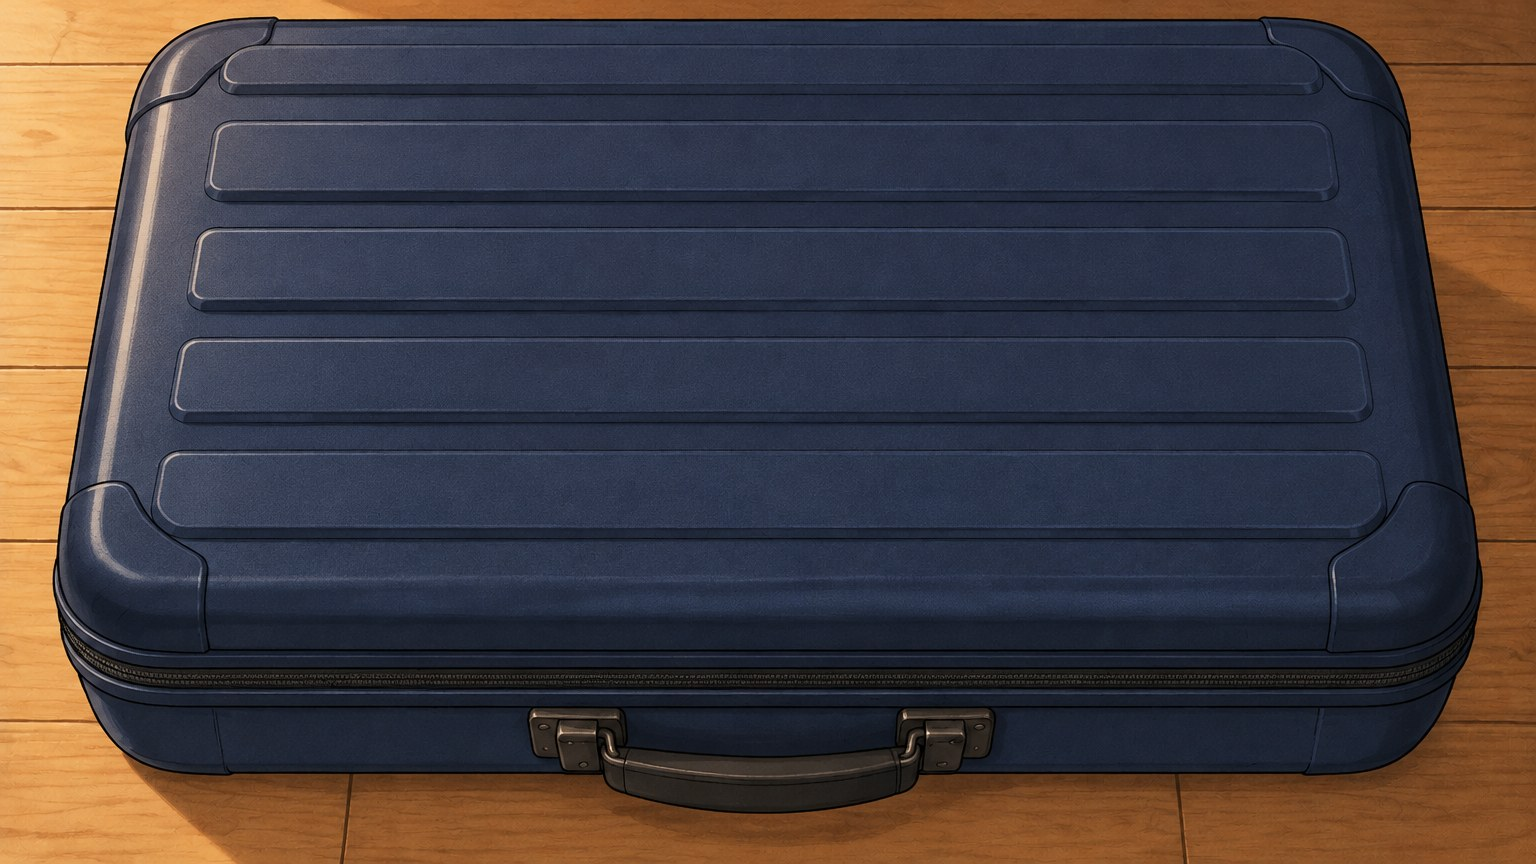
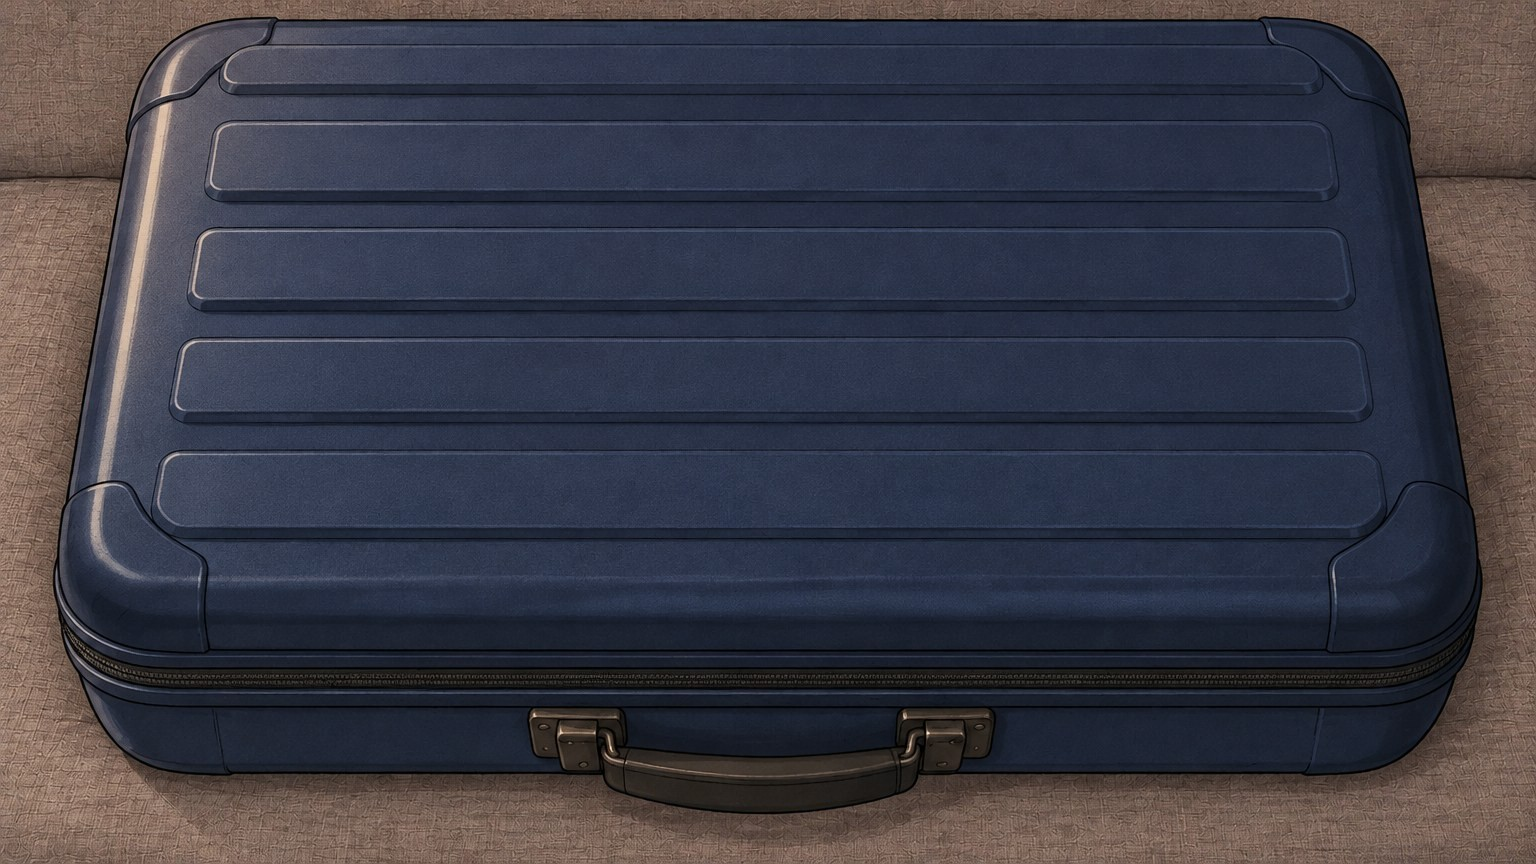
eval2: the whiteboard beside the case, the case's close-ups on the sofa (MOTH-147, MOTH-148; build 2026-10-25j)
The board moved left and the case's patch trimmed; the close-ups' floor
replaced by the sofa's fabric with the case kept pixel for pixel. Audit
B11 lists things on a wall that partly overlap. Checklist 96.

Claude-Session: https://claude.ai/code/session_01NNV6bKQQBQHSTRYcXaNkXH

Changed region(s): [[0.0, 0.0, 1.0, 1.0]]

diff --git a/tools/audit.js b/tools/audit.js
@@ -1,6 +1,6 @@
 /* The Moth House: the checklist's automatic lines (next/CHECKLIST.md), run over every stage.
    usage: node tools/audit.js [stage ...]   (needs the local server: cd <repo> && python3 -m http.server 8765)
-   Checks: cut-out proportions (B9), icons centred inside their slots (E33), close-ups that take what their hotspot takes (E34), no picture squashed or stretched in a room or close-up (E35),
+   Checks: cut-out proportions (B9), icons centred inside their slots (E33), close-ups that take what their hotspot takes (E34), no picture squashed or stretched in a room or close-up (E35), things on a wall that partly overlap (B11, for a look),
    no stage part named after an engine style (E36), a shadow on things that stand (B10, listed for a look), pictures that fail to load (G38),
    hotspot bounds, size and the turn-arrow strips (E32), unique hotspot ids, close-up overflow and page scroll at three sizes (G36, G37),
    unrecorded voice keys (F34), targets low enough to sit under the caption band (32d), and an error-free run with reduced motion at the owner's screen shape (G36).
@@ -92,6 +92,12 @@ const voiced = new Set(JSON.parse(fs.readFileSync(path.join(__dirname, '../next/
           /* a smaller target drawn over the middle of a bigger one takes the bigger one's tap (the engine puts small things on top): fine for a mug on a desk, wrong for a window on the stairs (14 Oct 2026) */
           for (const h of hs) for (const g of hs){ if (g === h || g.w*g.h <= h.w*h.h) continue; const gx = g.l + g.w/2, gy = g.t + g.h/2;
             if (gx > h.l && gx < h.l + h.w && gy > h.t && gy < h.t + h.h) say(stage, 'E32?', `${v}: ${h.id} covers the middle of ${g.id}, so a tap on ${g.id}'s centre goes to ${h.id} (fine only if that is the intent)`); }
+          /* things placed on a wall that partly overlap each other: the whiteboard stood in front of the case once the case was redrawn wider
+             (MOTH-147). One wholly inside another (a packed thing in the case) is meant; a part-overlap is listed for a look */
+          (await p.evaluate(() => { const ims = [...document.querySelectorAll('#scene img')].filter(im => !im.closest('#inv, #closeup, .d3') && im.complete && im.naturalWidth).map(im => [im.getAttribute('src').split('/').pop().split('?')[0], im.getBoundingClientRect()]).filter(([, r]) => r.width > 4 && r.height > 4), out = [];
+            for (let i = 0; i < ims.length; i++) for (let j = i + 1; j < ims.length; j++){ const [a, r] = ims[i], [b, q] = ims[j]; const w = Math.min(r.right, q.right) - Math.max(r.left, q.left), h = Math.min(r.bottom, q.bottom) - Math.max(r.top, q.top); if (w <= 0 || h <= 0) continue;
+              const part = w*h/Math.min(r.width*r.height, q.width*q.height); if (part > 0.03 && part < 0.85) out.push(`${a} and ${b} overlap by ${Math.round(part*100)}% (fine only if one stands in front of the other on purpose)`); }
+            return out; })).forEach(q => say(stage, 'B11?', `${v}: ${q}`));
           /* no picture squashed or stretched to fake a view: the tape was a front-on roll at scaleY(.45), a flat disc on the desk (MOTH-117) */
           (await p.evaluate(squashed, '#scene')).forEach(q => say(stage, 'E35', `${v}: ${q}`));
           await p.screenshot({path:path.join(OUT, `${stage}-${v}.png`), clip:await p.locator('#scene').boundingBox()});

diff --git a/next/landscape/stages/eval2.js b/next/landscape/stages/eval2.js
@@ -78,7 +78,7 @@ const ov = html => { const d = document.createElement('div'); d.style.cssText = 
 const BOTOUT = {l:70.96, t:57.41, w:17.32}, BOTFLOOR = {l:72, t:73.5, w:15, h:17.5}, TAPEIN = [12.5, 56, 14, 23.5]; /* the patch (m1-botout2, the socks drawer close-up attached so the socks agree), the drawer on the floor, the tape in closeup-drawer-mid-tape.jpg: measured on grids */
 const HOTS = {
   m3:[
-    {id:'e2_board', l:42, t:49, w:15, h:17, label:'Mary’s whiteboard', key:true, sound:'paper'},
+    {id:'e2_board', l:40, t:49, w:14.5, h:17, label:'Mary’s whiteboard', key:true, sound:'paper'},
     {id:'e2_case', l:55, t:40, w:19, h:27, label:'Mary’s case', sound:'open'},
     {id:'e2_cushions', l:30, t:48, w:12, h:17, label:'Cushions', sound:'tap'},
     {id:'e2_poster', l:17, t:6, w:15, h:41, label:'Planets poster', sound:'paper'},
@@ -208,7 +208,7 @@ const gold = () => S.wiped ? '<div style="position:absolute;inset:0;background:r
 const OVERLAYS = {
   m3:() => ov(gold() /* the case (about 60 cm, against the 200 cm sofa) and the board propped on the seat; the game writes on the board */
     + caseRoom()
-    + `<div style="position:absolute;left:43%;top:50%;width:13%">${boardWrap(false)}</div>`),
+    + `<div style="position:absolute;left:40.8%;top:50%;width:13%">${boardWrap(false)}</div>`),
   m2:() => ov(gold() + (S.lightsOff ? '' : `<img class="e2tw" src="${A}layer-lights-on.png?v=${BUILD}" alt="" style="position:absolute;left:13.74%;top:36.23%;width:12.43%">`)),
   m1:() => ov(gold()
     + (taken('shelly') ? '' : `<div style="position:absolute;left:87.45%;top:38.9%;width:1.8%;height:2.4%;overflow:hidden"><img src="${A}item-shelly.png?v=${BUILD}" alt="" style="position:absolute;left:22%;top:4%;width:56%"><span style="position:absolute;inset:0;background:rgba(255,255,255,.18)"></span></div>`)
@@ -258,7 +258,7 @@ function wardrobeRoom(){
 function setWardrobe(open){ swingFrom.wdl = swingFrom.wdr = !!S.wardOpen; S.wardOpen = open; save(); sfx(open ? 'open' : 'close'); render(); animateDoor('wdl', open); animateDoor('wdr', open); }
 /* The case in the room (MOTH-113, MOTH-123, MOTH-133): drawn from the close-up so the clothes agree; each packed thing is lifted from an
    edit with all four in, so any of them shows in its own place; zipped shut, it is the closed case. */
-const CASEROOM = {sheet:[54.56, 52.43, 6.71], present:[59.77, 54.17, 7.23], hat:[65.69, 50.93, 7.1], passport:[54.75, 57.06, 4.3]}, CASEP = [52.99, 24.42, 22.98]; /* the case drawn in place on the sofa at the room's eye level (MOTH-146), open and shut (the handle at the front: MOTH-145), and each packed thing from its own edit of it, pasted where it lies: all in room percentages */
+const CASEROOM = {sheet:[54.56, 52.43, 6.71], present:[59.77, 54.17, 7.23], hat:[65.69, 50.93, 7.1], passport:[54.75, 57.06, 4.3]}, CASEP = [54.49, 24.42, 21.48]; /* the case drawn in place on the sofa at the room's eye level (MOTH-146), open and shut (the handle at the front: MOTH-145), and each packed thing from its own edit of it, pasted where it lies: all in room percentages */
 const CASEUP = {sheet:[9.64, 36.0, 22.33], passport:[6.32, 61.0, 12.63], present:[36.26, 42.82, 25.72], hat:[63.41, 34.14, 30.01]};
 const PACKFILE = {carol:'sheet', hat:'hat', present:'present', passport:'passport'};
 function caseRoom(){

diff --git a/next/landscape/index.html b/next/landscape/index.html
@@ -644,7 +644,7 @@ button{font:inherit;color:inherit;cursor:pointer}
 
 <script>
 'use strict';
-const BUILD = '2026-10-25i';
+const BUILD = '2026-10-25j';
 const $ = id => document.getElementById(id);
 
 /* ---------- sizing: the scene fills the screen in landscape, the inventory strip under it, or beside it on a wide screen (backlog 24) ---------- */
@@ -1764,16 +1764,16 @@ function boot(){
   playSplash().then(showTitle);
 }
 </script>
-<script src="stages/school.js?v=2026-10-25i"></script>
-<script src="stages/packing.js?v=2026-10-25i"></script>
-<script src="stages/school3.js?v=2026-10-25i"></script>
-<script src="stages/evalroom.js?v=2026-10-25i"></script>
-<script src="stages/eval2.js?v=2026-10-25i"></script>
-<script src="stages/eschool.js?v=2026-10-25i"></script>
-<script src="stages/zschool.js?v=2026-10-25i"></script>
-<script src="stages/flight.js?v=2026-10-25i"></script>
-<script src="stages/nana.js?v=2026-10-25i"></script>
-<script src="stages/park.js?v=2026-10-25i"></script>
+<script src="stages/school.js?v=2026-10-25j"></script>
+<script src="stages/packing.js?v=2026-10-25j"></script>
+<script src="stages/school3.js?v=2026-10-25j"></script>
+<script src="stages/evalroom.js?v=2026-10-25j"></script>
+<script src="stages/eval2.js?v=2026-10-25j"></script>
+<script src="stages/eschool.js?v=2026-10-25j"></script>
+<script src="stages/zschool.js?v=2026-10-25j"></script>
+<script src="stages/flight.js?v=2026-10-25j"></script>
+<script src="stages/nana.js?v=2026-10-25j"></script>
+<script src="stages/park.js?v=2026-10-25j"></script>
 <script>boot();</script>
 <script>if ('serviceWorker' in navigator && location.protocol === 'https:') navigator.serviceWorker.register('../../sw.js').catch(() => {});</script>
 </body>

diff --git a/levels/LEVEL-eval2.md b/levels/LEVEL-eval2.md
@@ -3,8 +3,8 @@
 *Opened on 24 Oct 2026 at the owner's word: "Do the packing day but built from scratch. Just as a two-room puzzle. Mary needs to find her things before she can take her flight to London for Christmas. Make it interesting." It is the second test level after "Lock-up Duty" (`levels/LEVEL-evalroom.md`), built the same way through the same gates: the room-specification method on Sunburst in the signed-off style, the test room's way of playing, and the owner's materials first (playbook 4x, checklist 8c and 8d). The owner is giving the rooms one at a time as photographs, which are never kept in the repo: each room is written down here in words as it arrives, with what is still missing, and the design is drawn on paper and approved before any picture is made. Room 1 arrived on 24 Oct 2026 (eight pictures) and room 2 the same day (eight pictures, Mary's room); the design below is drawn from both and waits on the owner's Gates A and B. Nothing is signed, nothing is built, no credit is spent. The stage key `eval2` and the hotspot prefix `e2_` are reserved. (An earlier outline for this key, a front-office test room, is parked in commit `731e844` and is not this level.)*
 
 Status: `brief` | `outline` | `greybox` | `assets listed` | `samples` | `batch` | `integrating` | `released`
-Current status: integrating (Gates A to E signed 25 Oct 2026; the owner's fifth review fixed in build 2026-10-25g; the drawers, his option 1, in 2026-10-25h; his screenshots in 2026-10-25i)
-Build id of the latest play link: 2026-10-25i
+Current status: integrating (Gates A to E signed 25 Oct 2026; the owner's fifth review fixed in build 2026-10-25g; the drawers, his option 1, in 2026-10-25h; his screenshots in 2026-10-25i and 2026-10-25j)
+Build id of the latest play link: 2026-10-25j
 Latest play link: https://rawcdn.githack.com/me565/me565.github.io/bad8fe7a173ead7c6bce34a0445540538559f2c7/next/landscape/index.html?stage=eval2
 
 ---
@@ -485,6 +485,15 @@ Pictures made (`evals/images/runs/eval2-fix5.json`, run 40189249187, linted clea
 
 Pictures (`evals/images/runs/eval2-case-eye.json`, run 40199368282): **29.4¢ for 6**, all first time. Checks on build 2026-10-25i: scripted playthrough passes (normal and reduced motion); audit of eval2: no failures.
 
+### The owner's screenshots (25 Oct 2026, build 2026-10-25i): MOTH-147, MOTH-148
+
+| Card | His point | The cause | Fixed how |
+|---|---|---|---|
+| MOTH-147 | The whiteboard stands in front of the case | The case, redrawn in place, grew left; the board's overlay was not moved, and its patch box began left of the case | The board moved left (40.8%) to stand beside the case; the case's patch trimmed to start just before it; the audit lists part-overlaps (B11) |
+| MOTH-148 | The case's close-ups lie on a wooden floor; the case is on the sofa | The close-ups were drawn before the case's place was set | Edited onto the sofa's fabric (with a crop of `m3`'s sofa attached), then the old case kept pixel for pixel and only the floor round it replaced, so the packed pieces still line up |
+
+Pictures (`evals/images/runs/eval2-case-sofa.json`, run 40200819195): **3.6¢ for 2**, first time. Build 2026-10-25j: playthrough passes (normal and reduced motion); audit: no failures, no overlaps.
+
 ## 8. Release
 
 (the template's sections, filled in order as the gates open; see `levels/LEVEL-TEMPLATE.md`)
@@ -503,7 +512,8 @@ Pictures (`evals/images/runs/eval2-case-eye.json`, run 40199368282): **29.4¢ fo
 | 7 polish: the fifth review's pictures | ~46¢ (13 listed) | 44.8¢ | 13 (re-dos of earlier pictures, all made first time) | the tape and the wardrobe's rail (prompts that said "from above" and "a few clothes"), the bath and tub (drawn alone from above), the room's case pieces (one all-in edit: cut and misplaced), the trundle (a leg and a laid-on roll), Elliot's note (a code label) |
 | 7 polish: the drawers (MOTH-120, option 1) | ~12¢ (three pictures) | 15.3¢ | 1 | the room's drawer drawn without the socks close-up attached (pastel socks): redrawn with it, 5.4¢ |
 | 7 polish: the case at the room's eye level (MOTH-145, MOTH-146) | ~25¢ (six pictures) | 29.4¢ | 6 (re-dos of the room's case) | drawn alone on white from the close-up's view; the shut edit moved the handle |
-| Total | ~$1.50 (the walls about $1.00 already spent, the pictures about 50¢) | $2.752 so far | 40 | the walls' re-dos before Gate C; 21 pictures redone in polish |
+| 7 polish: the case's close-ups on the sofa (MOTH-148) | ~8¢ | 3.6¢ | 2 (re-dos) | drawn on a wooden floor before the case's place was set |
+| Total | ~$1.50 (the walls about $1.00 already spent, the pictures about 50¢) | $2.788 so far | 42 | the walls' re-dos before Gate C; 23 pictures redone in polish |
 
 ## Learning loop
 
@@ -539,6 +549,7 @@ Pictures (`evals/images/runs/eval2-case-eye.json`, run 40199368282): **29.4¢ fo
 | Same review (MOTH-125, 136) | White left in keyed things | `--holes`, `--holes-in` | Yes | Checklist 92; `keycheck.py` |
 | Same review (MOTH-139; the door's blob) | Overlays placed by eye; a stage part named after an engine style | Measured on a grid; renamed | Yes | Checklist 93; `grid.py`; audit E36 |
 | Same review (MOTH-115, 130, 131, 132, 138, 140, 141) | Things not behaving as what they are; a refused tap that moved | Rolling wheels, a pressing button, doors with backs, a drawer that keeps its roll, movement only on yes | Yes | Checklist 94; playbook 4ag |
+| Owner's screenshots, build i (MOTH-147, MOTH-148) | A redraw left a neighbour overlapping and its close-ups on the old surface | Board moved; close-ups' background replaced | Yes | Checklist 96; playbook 4ag; audit B11 |
 | Owner's screenshots, 25 Oct 2026 (MOTH-145, MOTH-146, MOTH-142) | A room thing drawn alone on white kept the close-up's steep view; a state edit moved the handle; a glimpse placed too far carried a long floor | Drawn in place in the room; states name what stays; `glimpse.py` STRETCH | Yes | Checklist 95; playbook 4ag; `glimpse.py` |
 | The drawers' pictures, Claude's look, 25 Oct 2026 | The room's socks drawer drawn without its close-up attached: different socks | Redrawn with the close-up as picture 2 and the socks named | Already a rule (checklist 78): a manifest that draws one thing in two pictures attaches the first to the second; I broke it and caught it before the owner | this file |
 | Claude's full check, 25 Oct 2026 | The sofa on the loft wall's side wall; a pier in the window wall's corner; Mary's doorway showing a long corridor; the children's door shut on c4 | Edited with the neighbour attached | Yes: walk the whole set after any change | Checklist 75 |

diff --git a/next/PLAYBOOK.md b/next/PLAYBOOK.md
@@ -454,6 +454,7 @@ The owner's fifth recording (MOTH-135 to MOTH-144, and again MOTH-115, 117, 124,
 - **A stage's parts carry the stage's own names.** The doll's house front's back face was called `.back`, and the engine's round back button gave it its look: a small blob, two builds running, mistaken for a 3D fault. The audit finds any stage part named after an engine style (E36).
 - **A refused tap never shows what it refuses.** The tub lifted (showing the stool behind) while the line said the bath was on it: a hotspot's movement follows the answer (`get anim()`), or is left off.
 - **Anything that sits in a room is drawn in place, as an edit of that room's wall** (owner's screenshots, 25 Oct 2026, build 2026-10-25h: MOTH-145, MOTH-146). The case had been drawn alone on white with the close-up attached, so it kept the close-up's look-down view and sat on the sofa far too steeply; its shut state, another edit, moved the handle to the top. Drawn on the sofa in `m3` itself it takes the room's eye level, light and scale for free; each state is an edit of it that names what must stay ("the handle stays in the middle of the front edge"), and each change is pasted as a soft patch. Things drawn alone on white are for icons and close-up pieces only. And a doorway glimpse never carries a long floor down to the threshold: `glimpse.py` stops with STRETCH, because a long floor means the next wall was placed too far (the corridor seen from the children's door looked steep).
+- **A change ripples: re-check its neighbours and its close-ups** (owner's screenshots, build 2026-10-25i: MOTH-147, MOTH-148). Redrawn in place, the case grew left and the whiteboard's overlay now stood in front of it; and its close-ups still lay on the wooden floor they were first drawn on, though the case is on the sofa. After any redraw or move, every other thing on that wall and every close-up of the thing is looked at again; the audit lists part-overlaps on a wall (B11), and a close-up's prompt names the surface the thing lies on in the room. Where only a close-up's surroundings are wrong, the thing itself is kept pixel for pixel and only the background is replaced, so the pieces lifted from it still line up.
 - **Things behave as what they are.** A door turned past square shows its plain inside face, never its outside mirrored (the note seen through the doll's house front); a wheel turns, so its signs roll past rather than blink; a button presses in; a ladder that blocks a drawer gives way (its foot painted out); what is kept in a drawer stays inside it.
 
 

diff --git a/next/CHECKLIST.md b/next/CHECKLIST.md
@@ -154,3 +154,4 @@ Every fault the owner has had to point out, turned into a check. It is used twic
 93. **Overlays are measured on a grid** (`tools/grid.py`), the number written beside them (the lock's signs: MOTH-139); a stage's parts carry its own names, never an engine style's (E36: the door's back face was a blob).
 94. **Things behave as what they are, and a refused tap shows nothing.** A wheel's signs roll; a button presses in; a door turned past square shows its plain back; a ladder in front of a drawer gives way; a drawer keeps what is in it; a hotspot's movement plays only when its answer is yes (MOTH-115, MOTH-130, MOTH-131, MOTH-132, MOTH-138, MOTH-140, MOTH-141).
 95. **Anything in a room is drawn in place, as an edit of the room's wall,** at its eye level, light and scale; never alone on white and laid in (the case seen far too steeply: MOTH-146). Each state is an edit of it that names what must stay (the handle at the front: MOTH-145). Things on white are for icons and close-up pieces only. A glimpse's floor is never carried far: `glimpse.py` stops with STRETCH when the next wall is placed too far (MOTH-142).
+96. **When a thing is redrawn or moved, everything around it is checked again**: every other thing placed on that wall (the audit lists part-overlaps, B11) and every close-up of it, down to the surface it lies on (the whiteboard in front of the case, the case close up on a wooden floor while it lay on the sofa: MOTH-147, MOTH-148). A close-up's prompt names the surface under the thing, from the room.
